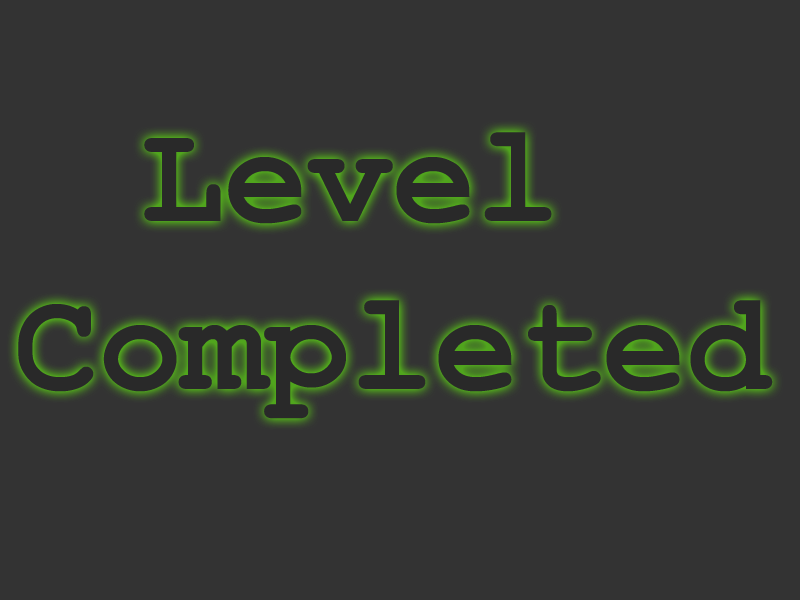
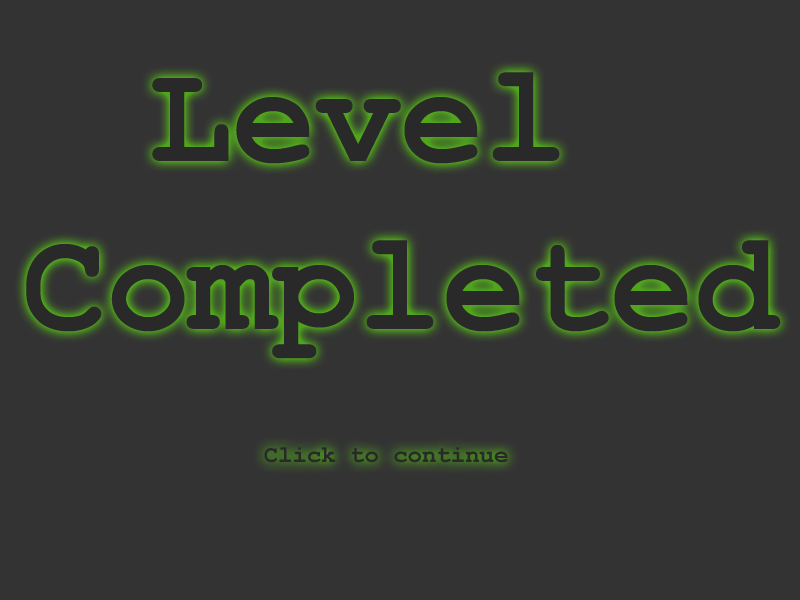
second level!

Changed region(s): [[0.0, 0.09, 1.0, 0.78]]

diff --git a/index.html b/index.html
@@ -71,7 +71,7 @@
     <img onclick="location.reload();" src="game-over-screen.png" />
   </div>
   <div id="level-completed-screen">
-    <img src="level-completed-screen.png" />
+    <img onclick="start_next_level();" src="level-completed-screen.png" />
   </div>
   <div id="message">Hello World</div>
 
@@ -182,6 +182,17 @@ function bind(scope, fn) {
   };
 }
 
+function parseArea(elm) {
+  if(elm.tagName == "rect") {
+    return parseRect(elm);
+  } else if(elm.tagName == "polygon") {
+    return parsePolygon(elm);
+  } else {
+    throw "unknown type for area";
+  }
+}
+
+
 function parsePolygon(poly) {
   var points = new Array();
   for(var i=0; i<poly.points.numberOfItems; i++) {
@@ -235,14 +246,14 @@ var Player = {
 
     if(isPointInPoly(this.x, this.y, Level.exit)) {
       $("#level-completed-screen").fadeIn(1000);
-      game_is_running=false;
+      //game_is_running=false;
       // todo: allow transition to next level (button? link?)
     }
   }
 };
 
 var Cameras = {
-  cameras: [],
+  cameras: new Array(),
   create: function(x, y, size, angle_start, angle_end, speed, fn) {
     var camera = {x: x, y:y, size:size, angle_start:angle_start, angle_end:angle_end, speed:speed}
     camera["fn"]=bind(camera, fn);
@@ -292,6 +303,10 @@ var Cameras = {
         this.cameras[i].hasCollision = false;
       }
     }
+  },
+  unload: function() {
+    delete this.cameras;
+    this.cameras = new Array();
   }
 }
 
@@ -317,6 +332,12 @@ var Terminals = {
     for(var i=0; i<this.regions.length; i++) {
       drawPolygon(this.regions[i]);
     }
+  },
+  unload: function() {
+    delete this.regions;
+    delete this.functions;
+    this.regions = new Array();
+    this.functions = new Array();
   }
 };
 
@@ -368,6 +389,14 @@ var Messages = {
         $("#message").fadeOut();
       }
     }
+  },
+  unload: function() {
+    delete this.messages;
+    delete this.areas;
+    delete this.states;
+    this.messages = new Array();
+    this.areas = new Array();
+    this.states = new Array();
   }
 };
 
@@ -403,16 +432,12 @@ var Level = {
       
       // parse walkable area
       if(elm[i].id == "walkable") {
-        Level.walkable = parsePolygon(elm[i]);
+        Level.walkable = parseArea(elm[i]);
       }
       
       // parse exit area
       if(elm[i].id == "exit") {
-        if(elm[i].tagName == "rect") {
-          Level.exit = parseRect(elm[i]);
-        } else {
-          Level.exit = parsePolygon(elm[i]);
-        }
+        Level.exit = parseArea(elm[i]);
       }
       
       // parse cameras
@@ -432,7 +457,7 @@ var Level = {
       // parse terminals
       if(elm[i].id.indexOf("terminal")==0) {
         var script = elm[i].getAttribute("hackers:terminal-script");
-        var poly = parsePolygon(elm[i])
+        var poly = parseArea(elm[i]);
         var fn = eval("("+script+")");
         Terminals.create(poly, fn);
         fn();
@@ -441,10 +466,18 @@ var Level = {
       // parse message areas
       if(elm[i].id.indexOf("message")==0) {
         Messages.messages.push(elm[i].getAttribute("hackers:message"));
-        Messages.areas.push(parseRect(elm[i]));
+        Messages.areas.push(parseArea(elm[i]));
         Messages.states.push(false);
       }
     }
+  },
+  unload: function() {
+    game_is_running=false;
+    delete this.walkable;
+    delete this.exit;
+    Terminals.unload();
+    Messages.unload();
+    Cameras.unload();
   }
 };
 
@@ -452,12 +485,16 @@ var Level = {
 var keysDown = {};
 
 addEventListener("keydown", function (e) {
-  if($("#title-screen").is(":visible")) {
+  if($("#title-screen").is(":visible") && e.keyCode == KeyEvent.DOM_VK_SPACE) {
     $("#title-screen img").click();
     return;
   }
-  if($("#game-over-screen").is(":visible")) {
+  if($("#game-over-screen").is(":visible") && e.keyCode == KeyEvent.DOM_VK_SPACE) {
     $("#game-over-screen img").click();
+    return;
+  }
+  if($("#level-completed-screen").is(":visible") && e.keyCode == KeyEvent.DOM_VK_SPACE) {
+    $("#level-completed-screen img").click();
     return;
   }
   if(HackTool.isEnabled) return true;
@@ -507,6 +544,13 @@ function start_game() {
   setInterval(draw, 10);
 }
 
+function start_next_level() {
+  Level.unload();
+  level_background.src = "level2-image.png";
+  Level.load("level2.svg");
+  game_is_running = true;
+  $("#level-completed-screen").fadeOut(1000);
+}
 
 </script>
 
